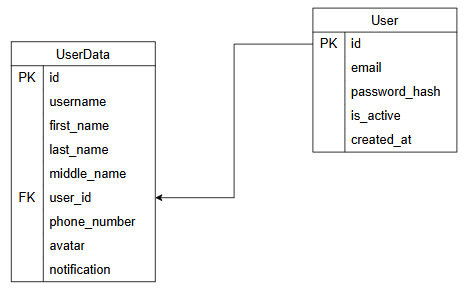
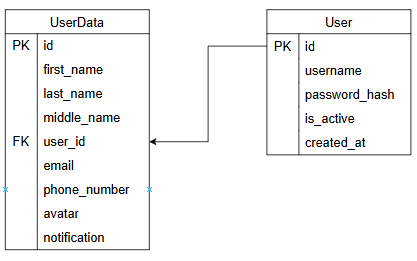
Поправил

Changed region(s): [[0.0, 0.0307, 0.4988, 0.9808], [0.4988, 0.0, 0.9976, 0.613]]

diff --git a/S2/models.py b/S2/models.py
@@ -11,18 +11,18 @@ class Base(Model):
 
 class User(Base):
     """Модель таблицы User"""
-    email = CharField(unique=True, null=False)
+    username = CharField(unique=True, null=Flase)
     password = CharField(null=False)
     is_active = BooleanField(default=True)
     created_at = DateField()
 
 class UserData(Base):
     """Модель таблицы UserData"""
-    username = CharField(null=False)
     first_name = CharField(null=True)
     last_name = CharField(null=True)
     middle_name = CharField(null=True)
     user_id = ForeignKeyField(User, backref="profile", unique=True, null=False, on_delete="CASCADE")
+    email = CharField(unique=True, null=False)
     phone_number = CharField(null=True, unique=True)
     avatar = CharField(null=True)
     notification = BooleanField(default=True)

diff --git a/S2/doc.md b/S2/doc.md
@@ -6,12 +6,12 @@
 
 |Параметр|Обязательность|Тип|Ограничение|Значение по умолчанию|
 |----------|----------------|-----|-------------|----------------------|
-|username|Не обязательно|Строка|Уникальный|user-{id}|
 |first_name|Не обязательно|Строка|—|—|
 |last_name|Не обязательно|Строка|—|—|
 |middle_name|Не обязательно|Строка|—|—|
 |user_id|Обязательно|Целое число|Уникальный, внешний ключ|—|
-|phone|Не обязательно|Строка|Уникальный, формат телефона|—|
+|email|Обязательно|Строка|Уникальный, формат почты|—|
+|phone_number|Не обязательно|Строка|Уникальный, формат телефона|—|
 |avatar|Не обязательно|Строка|формат URL|—|
 |notification|Не обязательно|Логический|—|True|
 
@@ -20,12 +20,12 @@
 |Параметр|Тип|
 |----------|-----|
 |id|Целое число|
-|username|Строка|
 |first_name|Строка|
 |last_name|Строка|
 |middle_name|Строка|
 |user_id|Целое число|
-|phone|Строка|
+|email|Строка|
+|phone_number|Строка|
 |avatar|Строка|
 |notification|Логический|
 
@@ -40,7 +40,8 @@
 |last_name|Не обязательно|Строка|—|—|
 |middle_name|Не обязательно|Строка|—|—|
 |user_id|Не обязательно|Целое число|Уникальный, внешний ключ|—|
-|phone|Не обязательно|Строка|Уникальный, формат телефона|—|
+|email|Не обязательно|Строка|Уникальный, формат почты|—|
+|phone_number|Не обязательно|Строка|Уникальный, формат телефона|—|
 |avatar|Не обязательно|Строка|формат URL|—|
 |notification|Не обязательно|Логический|—|—|
 
@@ -54,13 +55,14 @@
 |last_name|Строка|
 |middle_name|Строка|
 |user_id|Целое число|
-|phone|Строка|
+|email|Строка|
+|phone_number|Строка|
 |avatar|Строка|
 |notification|Логический|
 
 ## Удаление профиля по ID
 
-Удалит запись в таблице UserData и User и вернет True, если профиль был удален, иначе вернет False
+Удалит запись в таблице UserData, связанную запись в User и вернет True, если профиль был удален, иначе вернет False
 
 ## Получить профиль по ID
 
@@ -74,7 +76,8 @@
 |last_name|Строка|
 |middle_name|Строка|
 |user_id|Целое число|
-|phone|Строка|
+|email|Строка|
+|phone_number|Строка|
 |avatar|Строка|
 |notification|Логический|
 
@@ -87,9 +90,7 @@
 |first_name|Строка|Фильтр по имени|
 |last_name|Строка|Фильтр по фамилии|
 |middle_name|Строка|Фильтр по отчеству|
-|user_id|Целое число|Фильтр по id пользователя|
-|email|Строка|Фильтр по email из таблицы User|
-|is_active|Логический|Фильтр по статусу из таблицы User|
+|email|Строка|Фильтр по почте|
 |phone|Строка|Фильтр по телефону|
 
 ### Информация возвращается в виде списка профилей
@@ -102,6 +103,7 @@
 |last_name|Строка|
 |middle_name|Строка|
 |user_id|Целое число|
+|email|Строка|
 |phone|Строка|
 |avatar|Строка|
 |notification|Логический|
